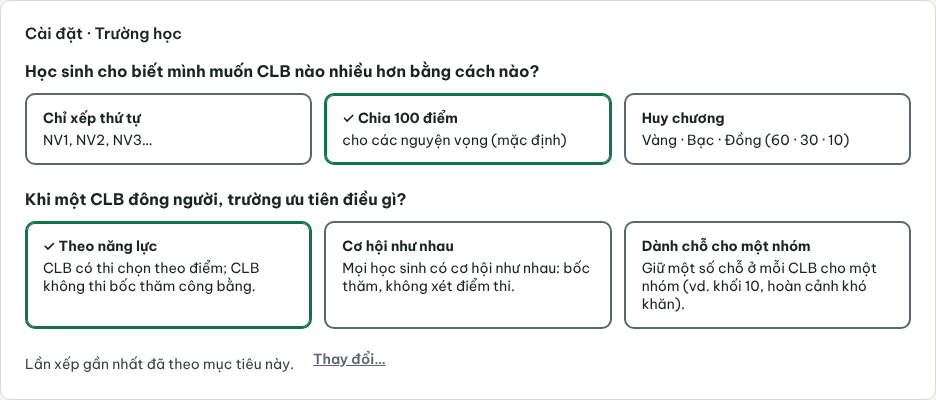
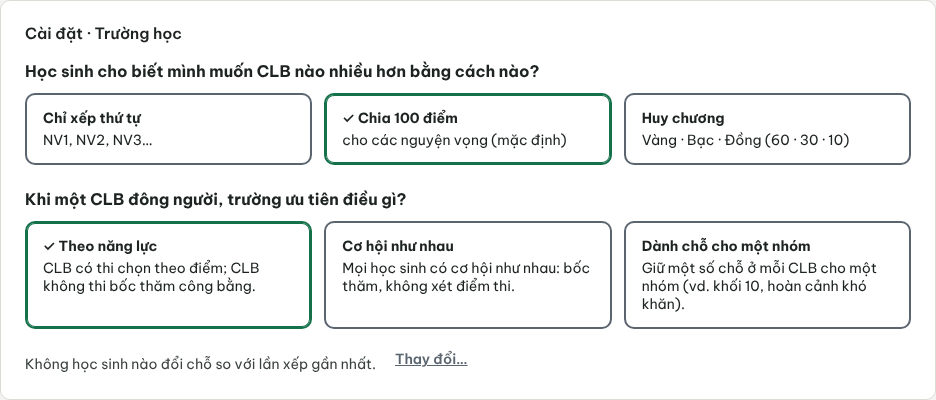
MT1-L4 fix1: dòng 0/0 nói kết quả, ghi chú ở trình tạo workspace, thông báo cũ bị thay, câu cảnh báo rõ hơn
Claude-Session: https://claude.ai/code/session_01TGThn7SbFerFkJFwKrtDKm

Changed region(s): [[0.031, 0.87, 0.4957, 0.93]]

diff --git a/js/19_muc_tieu.js b/js/19_muc_tieu.js
@@ -22,6 +22,9 @@ function mt1NhanNhom(ma) {
   return String(ma || "").split(/[_\s]+/).filter(Boolean).map((w) => MT1_TU_NHOM[w.toLowerCase()] || w).join(" ");
 }
 
+/* Thông báo "Đã chuyển sang…" mới nhất: lần chọn kế tiếp đóng nó, để Hoàn tác luôn là của lần MỚI NHẤT. */
+let mt1ToastCu = null;
+
 function mt1TenThe(ma) { return t(MT1_THE.find((x) => x.ma === ma).tt); }
 function mt1So(x) { return x && x.duoi_5 ? t("mt1_duoi_5") : String(x ? x.n : 0); }
 function mt1Ngoai() { return document.body.dataset.vai === "giao_vien"; }
@@ -63,19 +66,22 @@ function mt1TaoCauHoi(tienTo) {
       if (!r.ok) { the.loi(trErrs(r.errors).join(" ")); return; }
       ghiChu = (r.data.canh_bao || []).slice();
       const hoanTac = r.data.hoan_tac;
+      if (mt1ToastCu) { mt1ToastCu.goBo(); mt1ToastCu = null; }
       const them = ghiChu.length ? "\n" + trErrs(ghiChu).join(" ") : "";
       callApi("get_last_run_info").then((lr) => {
         const daChay = lr.ok && lr.data;
         const chu = t("ux1a_cd_da_chuyen", { cach: mt1TenThe(ma) }) + them + (daChay ? "\n" + t("ux1a_cd_giu_ket_qua") : "");
         const toast = showToast(chu, "success", { sticky: true, hanhDong: { nhan: t("ux1a_cd_hoan_tac"), khiBam: () => {
           toast.goBo();
+          if (mt1ToastCu === toast) mt1ToastCu = null;
           callApi("hoan_tac_muc_tieu", hoanTac).then((r2) => {
             if (!r2.ok) { the.loi(trErrs(r2.errors).join(" ")); return; }
             ghiChu = [];
             lamMoi(true);
           });
         } } });
-        setTimeout(() => toast.goBo(), 10000);
+        mt1ToastCu = toast;
+        setTimeout(() => { toast.goBo(); if (mt1ToastCu === toast) mt1ToastCu = null; }, 10000);
       });
       lamMoi(true);
     });
@@ -126,7 +132,7 @@ function mt1TaoCauHoi(tienTo) {
         if (du.co_so_sanh) {
           const t0 = du.tot_hon, x0 = du.xuong_sau;
           chu = (t0.n === 0 && x0.n === 0 && !t0.duoi_5 && !x0.duoi_5)
-            ? t("mt1_da_theo")
+            ? t("mt1_khong_doi")
             : t("mt1_uoc_tinh", { tot: mt1So(t0), xuong: mt1So(x0) });
         } else {
           const lines = lang === "en" ? du.mo_ta_en : du.mo_ta;

diff --git a/js/075_workspace.js b/js/075_workspace.js
@@ -738,9 +738,13 @@ function wsBuoc3(hop) {
   };
   /* MT1-L4: câu hỏi mục tiêu, cùng thành phần. Chưa có danh sách học sinh nên "Dành chỗ" chọn sau, ở Cài đặt;
      hai thẻ kia đặt ô "Thứ tự ưu tiên" bên dưới (điểm / chỉ nhóm) rồi để các ô tự đồng bộ. */
+  const ghiChuMt = wsEl("p", { class: "mt1-dong", id: "wzMtGhiChu", hidden: true,
+    text: trErrs([{ code: "mt_diem_chia_khong_dung", params: {} }]).join(" ") });
   const mucTieu = ux1aTaoThe("wzMt", (ma) => {
+    const dangChia = w.wharton === true;      /* đang "Chia 100 điểm": thẻ bốc thăm sẽ tự tắt điểm chia */
     oPriority.value = ma === "co_hoi" ? "tier" : "score";
     oPriority.dispatchEvent(new Event("change"));
+    ghiChuMt.hidden = !(ma === "co_hoi" && dangChia);
   }, MT1_THE, "mt1_cau_hoi", true);
   const veMucTieu = () => {
     mucTieu.datCach(oPriority.value === "tier" ? "co_hoi" : oPriority.value === "score" ? "nang_luc" : "");
@@ -760,6 +764,7 @@ function wsBuoc3(hop) {
   hop.append(
     the.hop,
     mucTieu.hop,
+    ghiChuMt,
     wsEl("p", { class: "mt1-dong", id: "wzMtLyDo", text: t("mt1_wz_danh_cho_sau") }),
     wsTruong("wzMaxChoices", "ws_r_max_choices", wsEl("input", { type: "number", id: "wzMaxChoices",
       class: "text-input ws-so", min: "1", max: "20", step: "1", value: w.maxChoices })),

diff --git a/i18n.js b/i18n.js
@@ -202,7 +202,7 @@
       mt1_chon_nhom: "Chọn nhóm:",
       mt1_duoi_5: "dưới 5",
       mt1_uoc_tinh: "Ước tính so với lần xếp gần nhất: {tot} {person_l} được chỗ tốt hơn, {xuong} {person_l} xuống nguyện vọng sau.",
-      mt1_da_theo: "Lần xếp gần nhất đã theo mục tiêu này.",
+      mt1_khong_doi: "Không {person_l} nào đổi chỗ so với lần xếp gần nhất.",
       mt1_giu_cho_tom: "Giữ {giu}/{suc} chỗ cho {nhom} · Xem từng {slot_s}",
       mt1_giu_cho_dong: "{ten}: giữ {giu}/{suc} chỗ",
       mt1_rieng: "Đang dùng cài đặt riêng ·",
@@ -1627,7 +1627,7 @@
       mt1_chon_nhom: "Choose the group:",
       mt1_duoi_5: "fewer than 5",
       mt1_uoc_tinh: "Estimate against the latest allocation: {tot} {person_l} get a better place, {xuong} {person_l} move to a lower choice.",
-      mt1_da_theo: "The latest allocation already followed this goal.",
+      mt1_khong_doi: "No {person_l} would change place compared with the latest allocation.",
       mt1_giu_cho_tom: "Keeping {giu}/{suc} seats for {nhom} · See each {slot_l}",
       mt1_giu_cho_dong: "{ten}: keeps {giu}/{suc} seats",
       mt1_rieng: "Using custom settings ·",

diff --git a/i18n_loi.js b/i18n_loi.js
@@ -1555,8 +1555,8 @@ window.I18N_ERROR_MESSAGES = {
     "en": "{n} clubs keep only 1-2 seats. That few seats hardly changes the result."
   },
   "mt_khong_co_khoang_cach": {
-    "vi": "Lần xếp gần nhất chưa cho thấy nhóm này bị thiệt so với các nhóm khác, nên giữ chỗ có thể chỉ tạo chênh lệch ngược.",
-    "en": "The latest allocation shows no disadvantage for this group, so keeping seats may only create a reverse gap."
+    "vi": "Lần xếp gần nhất, nhóm này không bị thiệt so với các {person_l} khác. Giữ chỗ có thể không cần thiết.",
+    "en": "In the latest allocation this group was not at a disadvantage compared with other {person_pl}. Keeping seats may not be needed."
   },
   "mt_uoc_tinh_fa": {
     "vi": "Chưa ước tính được khi đang dùng chế độ huy chương.",

diff --git a/tests/test_giao_dien_mt1.py b/tests/test_giao_dien_mt1.py
@@ -116,10 +116,13 @@ def test_the_giong_trong_trinh_tao_workspace_buoc_3(mo_trang):  # noqa: F811
         ["Theo năng lực", "Cơ hội như nhau", "Dành chỗ cho một nhóm"]
     assert page.locator("#wzMtDanhCho").is_disabled()                       # chưa có danh sách học sinh để chọn nhóm
     assert page.locator("#wzMtNangLuc").get_attribute("aria-checked") == "true"
+    assert page.locator("#wzMtGhiChu").is_hidden()
     page.locator("#wzMtCoHoi").click()
     assert page.locator("#wzPriority").input_value() == "tier"
+    assert "Điểm chia không được dùng với mục tiêu này." in page.locator("#wzMtGhiChu").inner_text()   # chỉ có khi đang Chia 100
     page.locator("#wzMtNangLuc").click()
     assert page.locator("#wzPriority").input_value() == "score"
+    assert page.locator("#wzMtGhiChu").is_hidden()
     assert not loi, loi
 
 
@@ -181,7 +184,7 @@ def test_danh_cho_khong_co_nhom_the_bi_khoa_voi_mot_dong_ly_do(mo_trang):  # noq
 
 # ----- 2/3. Thông báo, Hoàn tác -----
 
-def test_toast_hoan_tac_tra_dung_luat_va_tung_clb_ke_ca_hoan_tac_hai_lan(mo_trang):  # noqa: F811
+def test_toast_hoan_tac_tra_dung_luat_va_tung_clb_hai_lan_lien_tiep(mo_trang):  # noqa: F811
     page, api, goc, loi = mo_trang()
     _nap(api)
     cfg0, clb0 = _cfg(api), _clb(api)
@@ -190,17 +193,56 @@ def test_toast_hoan_tac_tra_dung_luat_va_tung_clb_ke_ca_hoan_tac_hai_lan(mo_tran
     _chon_nhom(page)
     toast1 = page.locator(".toast", has_text="Đã chuyển sang Dành chỗ cho một nhóm")
     toast1.wait_for()
-    sau1 = (_cfg(api), _clb(api))
-    assert sau1 != (cfg0, clb0)
-    page.locator("#ux1aMtCoHoi").click()
-    toast2 = page.locator(".toast", has_text="Đã chuyển sang Cơ hội như nhau")
-    toast2.wait_for()
-    toast2.get_by_role("button", name="Hoàn tác").click()                   # hoàn tác lần 1
-    _cho_chon(page, "DanhCho")
-    assert (_cfg(api), _clb(api)) == sau1
-    toast1.get_by_role("button", name="Hoàn tác").click()                   # hoàn tác lần 2 (về đầu)
+    assert (_cfg(api), _clb(api)) != (cfg0, clb0)
+    toast1.get_by_role("button", name="Hoàn tác").click()                   # hoàn tác lần 1
     _cho_chon(page, "NangLuc")
     assert (_cfg(api), _clb(api)) == (cfg0, clb0)
+    page.locator("#ux1aMtCoHoi").click()
+    page.locator(".toast", has_text="Đã chuyển sang Cơ hội như nhau").wait_for()
+    page.locator(".toast .toast-hanh-dong", has_text="Hoàn tác").click()    # hoàn tác lần 2 (thẻ khác)
+    _cho_chon(page, "NangLuc")
+    assert (_cfg(api), _clb(api)) == (cfg0, clb0)
+    assert not loi, loi
+
+
+def test_thong_bao_cu_bi_thay_boi_lan_chon_moi_va_hoan_tac_dung_lan_moi_nhat(mo_trang):  # noqa: F811
+    page, api, goc, loi = mo_trang()
+    _nap(api)
+    _vao(page)
+    page.locator("#ux1aMtDanhCho").click()
+    _chon_nhom(page)
+    sau_danh_cho = (_cfg(api), _clb(api))
+    page.locator(".toast", has_text="Đã chuyển sang Dành chỗ cho một nhóm").wait_for()
+    page.locator("#ux1aMtCoHoi").click()
+    moi = page.locator(".toast", has_text="Đã chuyển sang Cơ hội như nhau")
+    moi.wait_for()
+    page.wait_for_function("document.querySelectorAll('.toast').length === 1")      # chỉ còn thông báo mới nhất
+    assert page.locator(".toast", has_text="Dành chỗ cho một nhóm").count() == 0
+    moi.get_by_role("button", name="Hoàn tác").click()                              # hoàn tác lần MỚI NHẤT
+    _cho_chon(page, "DanhCho")
+    assert (_cfg(api), _clb(api)) == sau_danh_cho
+    assert not loi, loi
+
+
+def test_dong_tac_dong_0_0_noi_ket_qua_khong_noi_da_theo_muc_tieu(mo_trang, monkeypatch):  # noqa: F811
+    page, api, goc, loi = mo_trang()
+    _nap(api)
+    assert api.run_pipeline(42)["ok"]
+    goc_fn = api.uoc_tinh_muc_tieu
+
+    def khong_doi(*a, **k):
+        kq = goc_fn(*a, **k)
+        kq["data"].update({"co_so_sanh": True, "tot_hon": {"n": 0, "duoi_5": False},
+                           "xuong_sau": {"n": 0, "duoi_5": False}})
+        return kq
+    monkeypatch.setattr(api, "uoc_tinh_muc_tieu", khong_doi)
+    _vao(page)
+    page.locator("#ux1aMtCoHoi").click()                                    # luật khác lần xếp, nhưng kết quả y hệt
+    _cho_chon(page, "CoHoi")
+    page.wait_for_function("document.getElementById('ux1aMtHieuQua').textContent.includes('đổi chỗ')")
+    chu = page.locator("#ux1aMtHieuQua").inner_text()
+    assert "Không học sinh nào đổi chỗ so với lần xếp gần nhất." in chu
+    assert "đã theo mục tiêu" not in chu
     assert not loi, loi
 
 
@@ -261,6 +303,9 @@ def test_danh_cho_hien_giu_cho_trong_details_gap_san(mo_trang):  # noqa: F811
     page.locator("#ux1aMtChiTiet > summary").click()
     dong = page.locator("#ux1aMtChiTiet li").all_inner_texts()
     assert len(dong) == 9 and all(re.search(r"giữ \d+/\d+", d) for d in dong)
+    canh = page.locator("#ux1aMtCanhBao .canh-bao-vang").all_inner_texts()
+    assert canh and all("chênh lệch ngược" not in c for c in canh)          # câu cũ khó hiểu đã thay
+    assert any("không bị thiệt" in c and "Giữ chỗ có thể không cần thiết." in c for c in canh), canh
     assert not loi, loi
 
 

diff --git a/i18n_errors.py b/i18n_errors.py
@@ -1659,8 +1659,8 @@ MESSAGES = {
         "en": "{n} clubs keep only 1-2 seats. That few seats hardly changes the result.",
     },
     "mt_khong_co_khoang_cach": {
-        "vi": "Lần xếp gần nhất chưa cho thấy nhóm này bị thiệt so với các nhóm khác, nên giữ chỗ có thể chỉ tạo chênh lệch ngược.",
-        "en": "The latest allocation shows no disadvantage for this group, so keeping seats may only create a reverse gap.",
+        "vi": "Lần xếp gần nhất, nhóm này không bị thiệt so với các {person_l} khác. Giữ chỗ có thể không cần thiết.",
+        "en": "In the latest allocation this group was not at a disadvantage compared with other {person_pl}. Keeping seats may not be needed.",
     },
     "mt_uoc_tinh_fa": {
         "vi": "Chưa ước tính được khi đang dùng chế độ huy chương.",

diff --git a/CHANGELOG.md b/CHANGELOG.md
@@ -1,5 +1,12 @@
 # CHANGELOG
 
+## 2026-11-20 — MT1-L4 fix1: dòng "đã theo mục tiêu", ghi chú ở trình tạo workspace, thông báo cũ, câu cảnh báo
+
+- `js/19_muc_tieu.js`: ước tính 0/0 nay nói kết quả ("Không học sinh nào đổi chỗ so với lần xếp gần nhất."; khoá `mt1_khong_doi` thay `mt1_da_theo`, vì lần xếp trước có thể dùng luật khác); lần chọn thẻ mới đóng thông báo "Đã chuyển sang…" cũ, Hoàn tác luôn là của lần mới nhất.
+- `js/075_workspace.js` (bước 3): chọn "Cơ hội như nhau" khi đang "Chia 100 điểm" hiện cùng dòng "Điểm chia không được dùng với mục tiêu này." (`#wzMtGhiChu`).
+- `i18n_errors.py` (`mt_khong_co_khoang_cach`): câu rõ hơn, "Lần xếp gần nhất, nhóm này không bị thiệt so với các học sinh khác. Giữ chỗ có thể không cần thiết."
+- "Xem từng CLB" vốn đã thu gọn sẵn (ảnh cũ do script chụp mở ra); đã có test canh. Test: `tests/test_giao_dien_mt1.py` 24 ca (+3, sửa 2); ảnh làm mới ở `docs/phien/anh_mt1/`.
+
 ## 2026-11-20 — MT1-L4: giao diện ba thẻ mục tiêu
 
 - Mới: `js/19_muc_tieu.js` (`mt1TaoCauHoi`, `mt1VeKetQua`, `mt1NhanNhom`; nạp trong `index.html`, `js/_danh_sach.txt`, `initMucTieu` ở `js/08_khoi_dong.js`). Câu hỏi thứ hai ở Cài đặt, "Khi một CLB đông người, trường ưu tiên điều gì?", đặt ngay dưới câu hỏi đầu, vẽ bằng CÙNG thành phần `ux1aTaoThe` (thêm tham số `bo`, `khoaCauHoi`, `moiTheTab`; lưới thẻ có `id`); thay dòng "Cách xét khi đông" (`ux1aVeCachXet` bỏ), "Thay đổi…" nằm dưới câu hỏi mới. 1 lần bấm (`nang_luc`, `co_hoi`, `danh_cho` một nhóm), 2 lần (nhiều nhóm: bấm thẻ hiện nút nhóm đọc được "khối 10", bấm nhóm mới lưu). Lưu ngay, thông báo "Đã chuyển sang …" + Hoàn tác 10 giây (luật VÀ chỗ giữ từng CLB), ghi chú "Điểm chia không được dùng với mục tiêu này." khi `co_hoi` tắt điểm chia. Một dòng tác động (lời trước lần xếp đầu; "Ước tính so với lần xếp gần nhất…" sau đó; "dưới 5" từ `{n: null, duoi_5: true}`), `<details>` "Xem từng CLB", cảnh báo vàng mỗi loại một dòng, lý do khoá một dòng (huy chương / không có cột nhóm), dòng xám "Đang dùng cài đặt riêng · Về mục tiêu mẫu".
